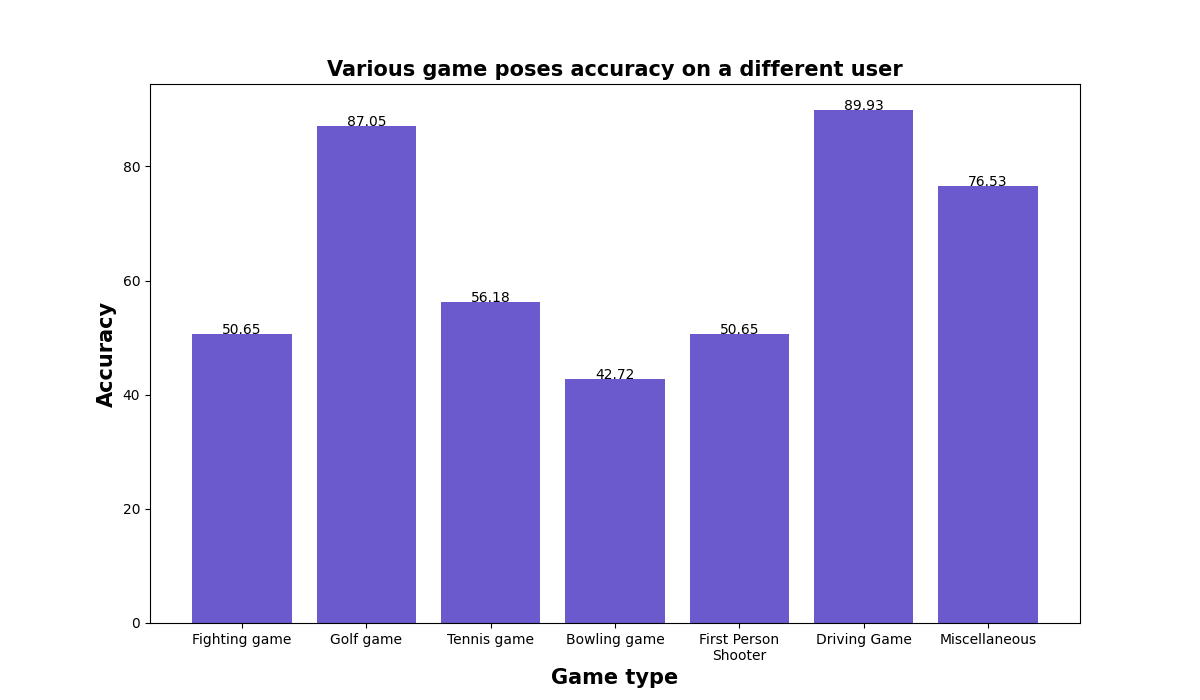
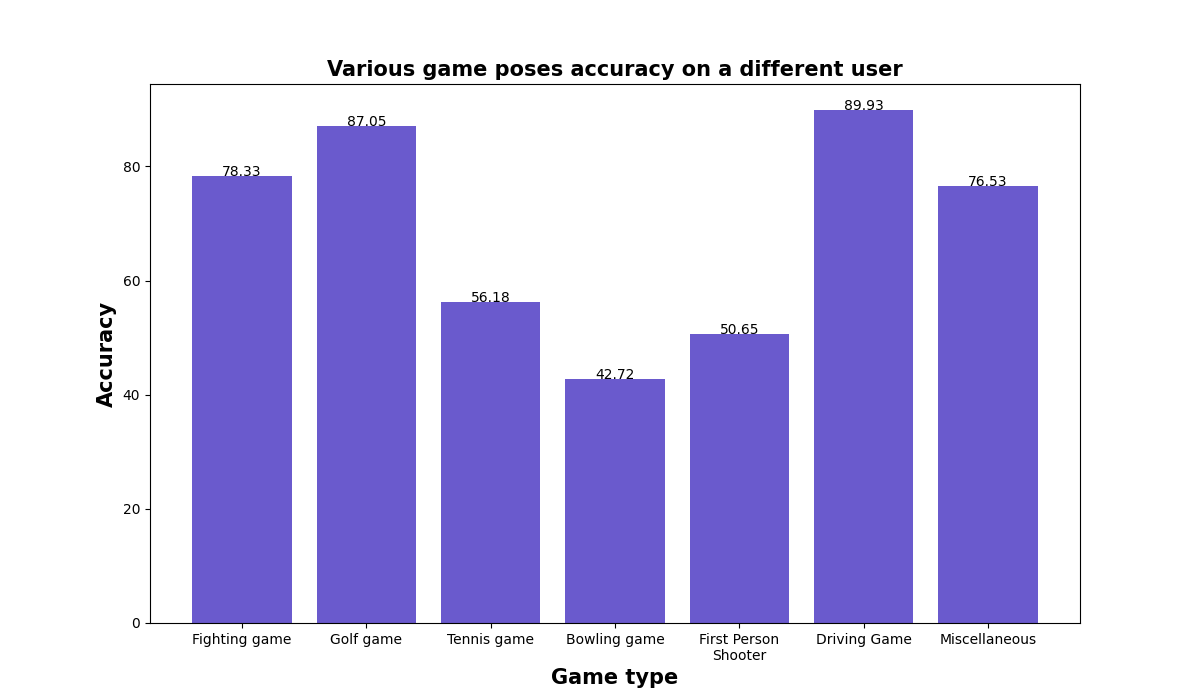
updating plots for presentation

Changed region(s): [[0.1542, 0.24, 0.2467, 0.48]]

diff --git a/experiments/evaluate_models.py b/experiments/evaluate_models.py
@@ -260,11 +260,9 @@ def calculate_metrics(model, model_input, predictions_lst, threshold, test_movem
 def evaluate_model_threshold(model_name, pose_estimation_model, threshold, queue_size, test_dir, test_movements,
                              test_pose_switches, ml_model=False, ensemble=True, preprocessing=True, preprocess_name="video2"):
     if not ml_model:
-        #model = tf.keras.models.load_model("saved_models/"+model_name)
-        model = tf.keras.models.load_model(model_name)
+        model = tf.keras.models.load_model("saved_models/"+model_name)
     else:
-        #model = joblib.load(f'saved_models/{model_name}.joblib')
-        model = joblib.load(f'{model_name}.joblib')
+        model = joblib.load(f'saved_models/{model_name}.joblib')
     true_positive, true_negative, false_positive, false_negative = 0, 0, 0, 0
     predictions_lst = [-1] * queue_size
 
@@ -297,9 +295,11 @@ def evaluate_model_threshold(model_name, pose_estimation_model, threshold, queue
 def plot_model_metrics(model_name, pose_estimation_model, test_dir, test_movements, test_pose_switches,
                        ml_model=False, ensemble=True, preprocessing=True, preprocess_name="video2"):
     accuracy_list, precision_list, recall_list, F1_list = [], [], [], []
-    thresholds = [0.5, 0.6, 0.7, 0.8, 0.9, 0.95, 0.99]
-    queue_size = 4 if preprocess_name == "video2" else 2
-    for threshold in thresholds:
+    #thresholds = [0.5, 0.6, 0.7, 0.8, 0.9, 0.95, 0.99]
+    #queue_size = 4 if preprocess_name == "video2" else 2
+    threshold = 0.9
+    thresholds = [1, 2, 3, 4, 5, 6, 7, 8, 9]
+    for queue_size in thresholds:
         accuracy, precision, recall, F1_score = \
             evaluate_model_threshold(model_name, pose_estimation_model, threshold, queue_size, test_dir, test_movements,
                                      test_pose_switches, ml_model, ensemble, preprocessing, preprocess_name)
@@ -312,10 +312,10 @@ def plot_model_metrics(model_name, pose_estimation_model, test_dir, test_movemen
     plt.plot(thresholds, precision_list, label="precision")
     plt.plot(thresholds, recall_list, label="recall")
     plt.plot(thresholds, F1_list, label="F1 score")
-    plt.title(model_name + " metrics")
-    plt.ylabel("metric percentage")
-    plt.xlabel("threshold")
-    plt.legend(loc="lower left")
+    plt.title("Evaluation metrics scores as a function of the frame queue size")
+    plt.ylabel("Metric score")
+    plt.xlabel("Queue size")
+    plt.legend(loc="upper right")
     plt.grid()
     plt.show()
 
@@ -574,7 +574,7 @@ def fighting_users():
     plt.figure(figsize=(10, 6))
     plt.bar(players, accuracies, color='indianred')
     addlabels(players, accuracies)
-    plt.title("Fighting game poses accuracy of different players", fontweight='bold', fontsize=15)
+    plt.title("Fighting game poses accuracy of players when training on one user", fontweight='bold', fontsize=15)
     plt.xlabel("Different players", fontweight='bold', fontsize=15)
     plt.ylabel("Accuracy", fontweight='bold', fontsize=15)
     plt.show()
@@ -603,7 +603,7 @@ def gaming_tests():
                                                  "gaming_dataset/misc/test1-misc", misc_movements1, misc_pose_switches1,
                                                  ml_model=False, ensemble=True, preprocessing=True)
 
-    accuracies = [fps_acc, golf_acc, tennis_acc, bowling_acc, fps_acc, driving_acc, misc_acc]
+    accuracies = [fight_acc, golf_acc, tennis_acc, bowling_acc, fps_acc, driving_acc, misc_acc]
     games = ["Fighting game", "Golf game", "Tennis game", "Bowling game", "First Person\nShooter", "Driving Game", "Miscellaneous"]
     plt.figure(figsize=(12, 7))
     plt.bar(games, accuracies, color='slateblue')
@@ -614,14 +614,100 @@ def gaming_tests():
     plt.show()
 
 
+def final_pose_estimation_plot():
+    start = time.time()
+    thunder_accuracy, thunder_precision, thunder_recall, thunder_f1 = \
+        evaluate_model_threshold("movenet_ensemble/ensemble", "movenet_thunder", 0.9, 4, "test_video/test2-long", test2_movements,
+                                 test2_pose_switches, ml_model=False, preprocessing=True, preprocess_name="video2")
+    end = time.time()
+    thunder_fps = len(os.listdir("test_video/test2-long"))/(end - start)
+
+    start = time.time()
+    blazepose_accuracy, blazepose_precision, blazepose_recall, blazepose_f1 = \
+        evaluate_model_threshold("blazepose_ensemble/ensemble", "blazepose", 0.9, 4, "test_video/test2-long", test2_movements,
+                                 test2_pose_switches, ml_model=False, preprocessing=True, preprocess_name="video2")
+    end = time.time()
+    blazepose_fps = len(os.listdir("test_video/test2-long"))/(end - start)
+
+    start = time.time()
+    lightning_accuracy, lightning_precision, lightning_recall, lightning_f1 = \
+        evaluate_model_threshold("movenet_ensemble/ensemble", "movenet_lightning", 0.9, 4, "test_video/test2-long", test2_movements,
+                                 test2_pose_switches, ml_model=False, preprocessing=True, preprocess_name="video2")
+    end = time.time()
+    lightning_fps = len(os.listdir("test_video/test2-long"))/(end - start)
+
+    thunder = [thunder_accuracy, thunder_precision, thunder_recall, thunder_f1, thunder_fps]
+    blazepose = [blazepose_accuracy, blazepose_precision, blazepose_recall, blazepose_f1, blazepose_fps]
+    lightning = [lightning_accuracy, lightning_precision, lightning_recall, lightning_f1, lightning_fps]
+
+    bar_width = 1/4
+    plt.subplots(figsize=(10, 8))
+
+    # Set position of bar on X axis
+    br1 = np.arange(len(thunder))
+    br2 = [x + bar_width for x in br1]
+    br3 = [x + bar_width for x in br2]
+
+    plt.bar(br1, thunder, color='dodgerblue', width=bar_width, edgecolor='grey', label='Movenet Thunder')
+    for i in range(len(thunder)):
+        plt.text(i, thunder[i], "{:.2f}".format(thunder[i]), ha='center')
+    plt.bar(br2, blazepose, color='tomato', width=bar_width, edgecolor='grey', label='Blazepose')
+    for i in range(len(blazepose)):
+        plt.text(i+0.25, blazepose[i], "{:.2f}".format(blazepose[i]), ha='center')
+    plt.bar(br3, lightning, color='gold', width=bar_width, edgecolor='grey', label='Movenet lightning')
+    for i in range(len(lightning)):
+        plt.text(i+0.5, lightning[i], "{:.2f}".format(lightning[i]), ha='center')
+
+    # Adding Xticks
+    plt.title('Pose estimation models scores on a test set', fontweight='bold', fontsize=15)
+    plt.xlabel('Metrics', fontweight='bold', fontsize=15)
+    plt.ylabel('Metric score', fontweight='bold', fontsize=15)
+    plt.xticks([r + bar_width for r in range(len(thunder))], ['Accuracy', 'Precision', 'Recall', 'F1-score', 'FPS'])
+    plt.ylim([0, 100])
+    plt.legend()
+    plt.show()
+
+
+def final_gaming_plot():
+    one_user_train = [79.56, 77.09, 90.68, 81.57, 73.45, 65.04, 64.90, 66.10, 63.50, 92.08]
+    two_user_train = [86.70, 77.97, 92.13, 80.10, 89.38, 80.44, 73.08, 78.06, 71.69, 93.48]
+    three_user_train = [83.25, 76.65, 91.30, 79.85, 88.94, 75.06, 83.17, 83.76, 79.14, 92.08]
+
+    bar_width = 1/4
+    plt.subplots(figsize=(18, 10))
+
+    # Set position of bar on X axis
+    br1 = np.arange(len(one_user_train))
+    br2 = [x + bar_width for x in br1]
+    br3 = [x + bar_width for x in br2]
+
+    plt.bar(br1, one_user_train, color='orangered', width=bar_width, edgecolor='grey', label='Training on one user poses')
+    for i in range(len(one_user_train)):
+        plt.text(i, one_user_train[i], "{:.1f}".format(one_user_train[i]), ha='center')
+    plt.bar(br2, two_user_train, color='limegreen', width=bar_width, edgecolor='grey', label='Training on two users poses')
+    for i in range(len(two_user_train)):
+        plt.text(i+0.25, two_user_train[i], "{:.1f}".format(two_user_train[i]), ha='center')
+    plt.bar(br3, three_user_train, color='cornflowerblue', width=bar_width, edgecolor='grey', label='Training on three users poses')
+    for i in range(len(three_user_train)):
+        plt.text(i+0.5, three_user_train[i], "{:.1f}".format(three_user_train[i]), ha='center')
+
+    # Adding Xticks
+    plt.title('Accuracy of new players when training on other users', fontweight='bold', fontsize=24)
+    plt.xlabel('G3D dataset players', fontweight='bold', fontsize=24)
+    plt.ylabel('Pose accuracy', fontweight='bold', fontsize=24)
+    plt.xticks([r + bar_width for r in range(len(one_user_train))], ['Player ' + str(i) for i in range(1, 11)], fontsize=16)
+    plt.yticks(fontsize=16)
+    plt.ylim([0, 100])
+    plt.legend(fontsize=14, bbox_to_anchor=(1.13, 1.1))
+    plt.show()
+
+
 if __name__ == '__main__':
-    """
-    accuracy_dic = evaluate_model("movenet_ensemble_test/ensemble", "movenet", movenet_preprocess_data,
+
+    accuracy_dic = evaluate_model("movenet_ensemble/ensemble", "movenet", movenet_preprocess_data,
                                   ml_model=False, ensemble=True, preprocessing=False)
-    results_bar_plot("movenet ensemble Nadam", accuracy_dic)
+    results_bar_plot("movenet ensemble", accuracy_dic)
     
-    evaluate_model_threshold("movenet", "movenet", 0.9, 4, "test_video/test2-long", test2_movements,
-                             test2_pose_switches, ml_model=False, ensemble=False, preprocessing=False, preprocess_name="video2")
-    """
-    fighting_users()
-    gaming_tests()
+    evaluate_model_threshold("movenet_ensemble/ensemble", "movenet", 0.9, 4, "test_video/test2-long", test2_movements,
+                             test2_pose_switches, ml_model=False, ensemble=True, preprocessing=False, preprocess_name="video2")
+
